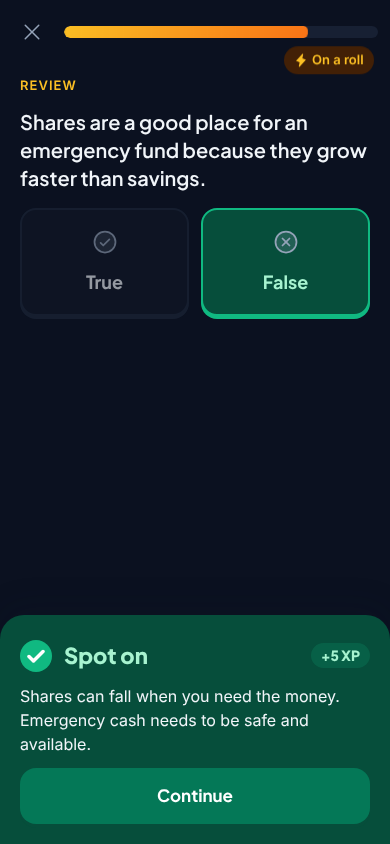
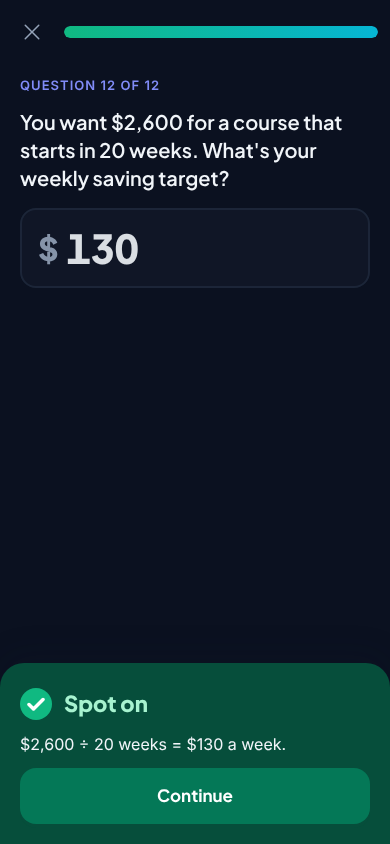
Leave dialog: say 'start again' (lessons restart); round 1 evidence so far
Claude-Session: https://claude.ai/code/session_01GBYcwNNV3dNhspR98EHqQR

diff --git a/src/screens/Session.tsx b/src/screens/Session.tsx
@@ -311,7 +311,7 @@ export function Session({ mode, items, onExit, onDone, lessonId, title }: { mode
         <div className="scrim" onClick={() => setConfirmExit(false)}>
           <div ref={exitRef} className="sheet" role="dialog" aria-modal="true" aria-label="Leave session" onClick={(e) => e.stopPropagation()}>
             <h2 className="sheet-title">Take a break?</h2>
-            <p className="muted">You can pick this up again any time. This round's answers won't be saved.</p>
+            <p className="muted">You can start it again any time. Answers from this round won't be saved.</p>
             <div className="stack">
               <Button onClick={() => setConfirmExit(false)}>Keep going</Button>
               <Button variant="ghost" onClick={onExit} data-testid="leave">
